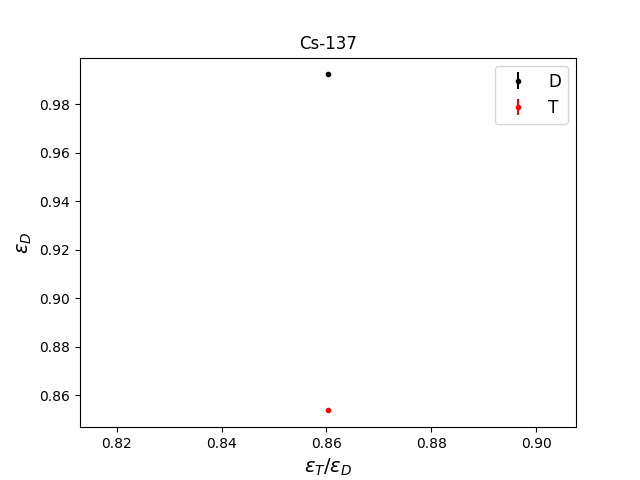
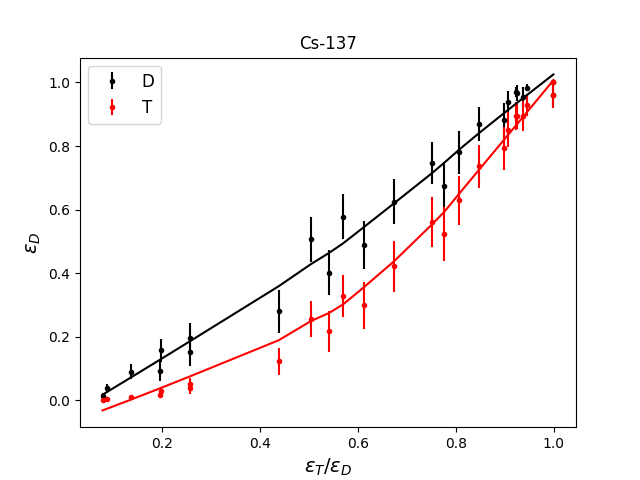
test efficiency calculation with Cs-137

diff --git a/MCTDCRcode/main_MCTDCR.py b/MCTDCRcode/main_MCTDCR.py
@@ -16,13 +16,14 @@ import scipy.stats as st
 
 
 ## INPUT OF THE MODEL
-N=1             # number of simulated decay (MC trials)
+N=25             # number of simulated decay (MC trials)
 Rad=["Cs-137"]       # list of radionuclides (Na-24)
 pmf_1=[1]       # relative abondance (pmf)
 kB = 1e-5         # Birks constant in cm/keV
-L=[1e-1]
-#L = np.logspace(-4,-2,10) # Free paramete in keV-1 (for Co-60)
-#L = np.logspace(-3,-1,10) # Free paramete in keV-1 (for Am-241)
+#L=[1e-1]
+L = np.logspace(-3, 0, 25) # Free paramete in keV-1 (for Co-60)
+# L = np.logspace(-4,-2,10) # Free paramete in keV-1 (for Co-60)
+# L = np.logspace(-3,-1,10) # Free paramete in keV-1 (for Am-241)
 # L = np.logspace(-3,1,30) # Free paramete in keV-1 (for Sr-90)
 # L = np.logspace(-2,1,50) # Free paramete in keV-1 (for H-3)
 TDCR_measure = 0.977784        # Measured TDCR value
@@ -75,7 +76,6 @@ for L_i in L: # loop on the free parameter values
        
      ## sampling of the decay branch
        multiplicity_branch = sum(np.asarray(p_branch))
-       print(out_PenNuc)
        index_branch = tl.sampling(p_branch)
        particle_branch = particle[index_branch]            # sampled particle emitted by the mother
        energy_branch =  e_branch[index_branch]             # energy of the particle emitted by the mother
@@ -96,7 +96,6 @@ for L_i in L: # loop on the free parameter values
          i_level = levelNumber.index(levelOftheDaughter)   # Find the position in the daughter level vector 
          ## sampling of the transition in energy levels of the daughter nucleus
          index_t = tl.sampling(prob[i_level+1])            # sampling of the transition
-         print("\t\t ***")
          print("\t\t Energy of the level = ", levelEnergy[i_level], " keV")
          print("\t\t Transition type = ", transitionType[i_level+1][index_t])
          print("\t\t Energy of the transition = ", e_trans[i_level+1][index_t], "keV")
@@ -251,11 +250,15 @@ for L_i in L: # loop on the free parameter values
 
 # TDCR_calcul_vec = np.asarray(efficiency_T)/np.asarray(efficiency_D)
 
+Eff0_D_reg = tl.regress(L, mean_efficiency_D)
+Eff0_T_reg = tl.regress(L, mean_efficiency_T)
 
 plt.figure("Efficiency curve I")
 plt.title(''.join(Rad))
 plt.errorbar(L, mean_efficiency_D, yerr = std_efficiency_D, fmt=".k", label = "D")
 plt.errorbar(L, mean_efficiency_T, yerr = std_efficiency_T, fmt=".r", label = "T")
+plt.plot(Eff0_D_reg[:,0],Eff0_D_reg[:,1],'-k')
+plt.plot(Eff0_T_reg[:,0],Eff0_T_reg[:,1],'-r')
 plt.xscale("log")
 #plt.plot(np.mean(TDCR_calcul_vec)*np.ones(N),efficiency_T,".b")[0]
 #plt.plot([TDCR_measure, TDCR_measure], [min(mean_efficiency_D), max(mean_efficiency_D)], '-r', label="Measurement")
@@ -272,8 +275,8 @@ plt.figure("Efficiency curve II")
 plt.title(''.join(Rad))
 plt.errorbar(TDCR_calcul, mean_efficiency_D, yerr=std_efficiency_D, fmt=".k", label = "D")
 plt.errorbar(TDCR_calcul, mean_efficiency_T, yerr=std_efficiency_T, fmt=".r", label = "T")
-plt.plot(TDCR_calcul, Eff_D_reg,'-k')
-plt.plot(TDCR_calcul, Eff_T_reg,'-r')
+plt.plot(Eff_D_reg[:,0],Eff_D_reg[:,1],'-k')
+plt.plot(Eff_T_reg[:,0], Eff_T_reg[:,1],'-r')
 plt.xlabel(r"$\epsilon_T/\epsilon_D$", fontsize = 14)
 plt.ylabel(r"$\epsilon_D$", fontsize = 14)
 plt.legend(fontsize = 12)

diff --git a/MCTDCRcode/TDCR_model_lib.py b/MCTDCRcode/TDCR_model_lib.py
@@ -13,7 +13,7 @@ import urllib.request as rq
 import numpy as np
 from numpy.core.multiarray import where
 import zipfile as zf
-#import statsmodels.api as sm
+import statsmodels.api as sm
 import matplotlib.pyplot as plt
 
 def sampling(p_x):
@@ -532,5 +532,5 @@ print(r)
 ## Non parametric regression
 
 def regress(x,y):
-    z = sm.nonparametric.lowess(y, x, return_sorted = False)
+    z = sm.nonparametric.lowess(y, x, return_sorted = True)
     return z
